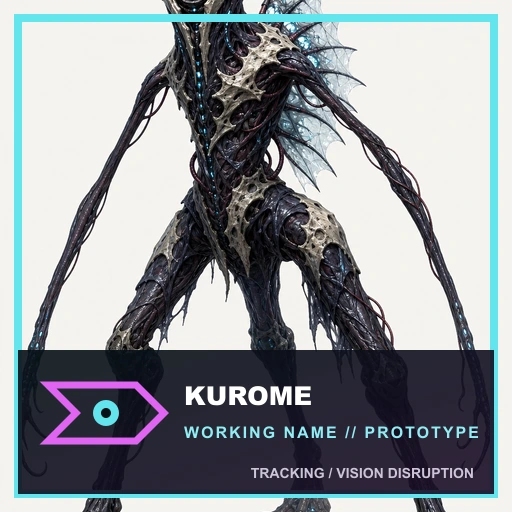
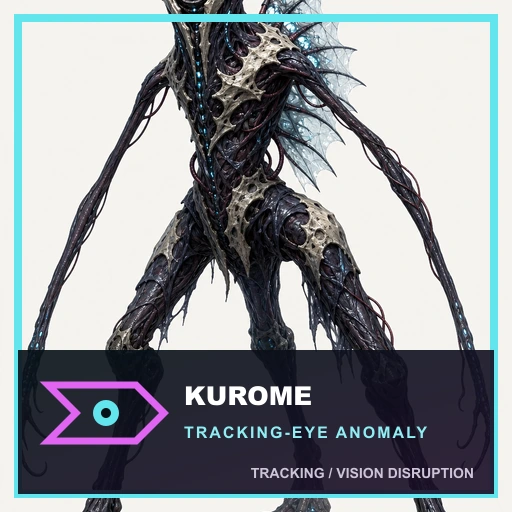
Record Producer approval for Kurome reference slice

Changed region(s): [[0.3438, 0.8125, 0.9375, 0.875]]

diff --git a/app/bossFoundation.js b/app/bossFoundation.js
@@ -10,8 +10,8 @@ const phase = (phaseNumber, label, startsAtRatio) => ({
 
 /**
  * Existing bosses are the first consumers of the 0.9.0 shared boss contract.
- * Kurome remains an isolated working-name prototype until its identity and
- * real-screen proof pass the producer checkpoint; no campaign stage consumes it.
+ * Kurome is the producer-approved reference slice for the remaining new bosses,
+ * but stays isolated until its outbreak mission becomes the campaign consumer.
  */
 export const BOSS_DEFINITIONS = deepFreeze([
   {
@@ -116,9 +116,9 @@ export const BOSS_DEFINITIONS = deepFreeze([
   {
     id: "boss-kurome-prototype",
     enemyKind: "kurome",
-    displayName: "クロメ（作業名）",
-    workingName: true,
-    prototypeStatus: "producer-review-required",
+    displayName: "クロメ",
+    workingName: false,
+    prototypeStatus: "producer-approved",
     classification: "長距離追跡・視界撹乱型異常発生個体",
     hpBar: { color: "#38cddd", accentColor: "#d461ed" },
     phases: [
@@ -127,7 +127,7 @@ export const BOSS_DEFINITIONS = deepFreeze([
       phase(3, "最終段階", .3),
     ],
     entrance: {
-      warningLabel: "警告 // クロメ（作業名）",
+      warningLabel: "警告 // クロメ",
       cueId: "enemy-takuya-attack",
       fullBodyRequired: true,
     },
@@ -163,8 +163,8 @@ export const BOSS_DEFINITIONS = deepFreeze([
     resultId: "boss-result-kurome-prototype",
     compendiumId: "boss-compendium-kurome-prototype",
     compendium: {
-      title: "クロメ（作業名）",
-      summary: "照準を追従させ、固定後に長距離射線と局所的な視界撹乱を発生させる試作個体。",
+      title: "クロメ",
+      summary: "照準を追従させ、固定後に長距離射線と局所的な視界撹乱を発生させる異常発生個体。",
       assetPath: "/art/v090-prototypes/bosses/kurome-compendium-candidate-r1.webp",
     },
   },

diff --git a/app/content/enemyCatalog.js b/app/content/enemyCatalog.js
@@ -15,7 +15,7 @@ export const ENEMY_CONTENT = deepFreeze([
   { id: "ooze", displayName: "漏泥", aliases: [], aiProfile: "contamination", hp: 138, hpPerWave: 3, speed: 10, damage: 14, range: 68, attackEvery: 1.45, bodyRadius: 14, laneSpeed: 26, abilityPressure: 1.4, spawnClass: "normal", initialAbilityCooldown: 3 },
   { id: "sprinter", displayName: "走鬼", aliases: [], aiProfile: "charge", hp: 78, hpPerWave: 2, speed: 38, damage: 18, range: 24, attackEvery: .68, bodyRadius: 11, laneSpeed: 82, abilityPressure: 1.38, spawnClass: "normal", initialAbilityCooldown: 2 },
   { id: "gate-eater", displayName: "改札喰い", aliases: [], aiProfile: "base-defense", hp: 1800, hpPerWave: 0, speed: 7, damage: 64, range: 42, attackEvery: 1.32, bodyRadius: 32, laneSpeed: 22, abilityPressure: 1.65, spawnClass: "boss", initialAbilityCooldown: 4 },
-  { id: "kurome", displayName: "クロメ（作業名）", aliases: [], aiProfile: "ranged", hp: 2100, hpPerWave: 0, speed: 8, damage: 36, range: 240, attackEvery: 1.72, bodyRadius: 36, laneSpeed: 28, abilityPressure: 1.72, spawnClass: "boss", initialAbilityCooldown: 3.4, prototypeStatus: "producer-review-required" },
+  { id: "kurome", displayName: "クロメ", aliases: [], aiProfile: "ranged", hp: 2100, hpPerWave: 0, speed: 8, damage: 36, range: 240, attackEvery: 1.72, bodyRadius: 36, laneSpeed: 28, abilityPressure: 1.72, spawnClass: "boss", initialAbilityCooldown: 3.4, prototypeStatus: "producer-approved" },
 ]);
 
 export const ENEMY_CONTENT_BY_ID = deepFreeze(Object.fromEntries(

diff --git a/app/AshfallGame.tsx b/app/AshfallGame.tsx
@@ -9841,8 +9841,8 @@ export function AshfallGame() {
                 g.flashOverlay = Math.max(g.flashOverlay, .12);
                 g.shake = triggerCameraShake(g.shake, CAMERA_SHAKE_EVENTS.takuyaHeavy);
                 g.banner = finalPhase
-                  ? "クロメ（作業名） // 追跡眼・過励起"
-                  : "クロメ（作業名） // 追跡眼";
+                  ? "クロメ // 追跡眼・過励起"
+                  : "クロメ // 追跡眼";
                 g.bannerTime = .82;
                 playProductionCue("enemy-takuya-attack", f.x, {
                   priority: 94,
@@ -9870,7 +9870,7 @@ export function AshfallGame() {
               if (started.ok) {
                 f.stationAbility = started.runtime as StationAbilityRuntime;
                 abilityFrame = true;
-                g.banner = "クロメ（作業名） // 追跡照準";
+                g.banner = "クロメ // 追跡照準";
                 // The ray itself owns the full warning window. Keep the global
                 // banner brief so compact screens do not cover this tall boss.
                 g.bannerTime = .68;

diff --git a/app/content/validator.js b/app/content/validator.js
@@ -252,7 +252,8 @@ function validateReferences(registry, ids, errors, warnings) {
         const enemy = validRecords(registry, "enemies").find((candidate) => candidate.id === id);
         // Runtime-generated records and explicit producer-review prototypes
         // are intentionally valid without a campaign mission consumer.
-        if (enemy?.runtimeGenerated || enemy?.prototypeStatus === "producer-review-required") continue;
+        if (enemy?.runtimeGenerated
+          || ["producer-review-required", "producer-approved"].includes(enemy?.prototypeStatus)) continue;
       }
       if (!referenced[collection].has(id)) warnings.push(issue("unused-content-candidate", collection, id, `Unreferenced ${collection} record`));
     }
